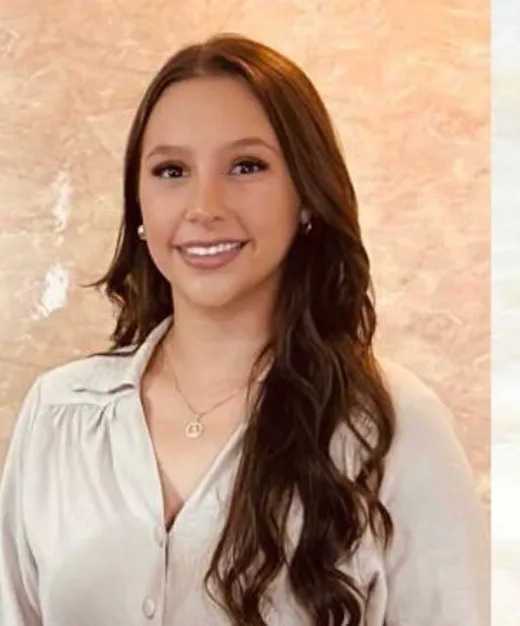
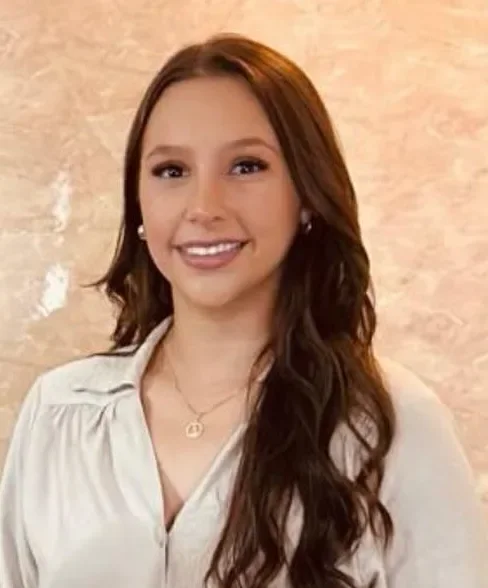
fix: recorte do retrato da Mylena

diff --git a/index.html b/index.html
@@ -114,7 +114,7 @@
       <h3>Também no escritório</h3>
       <ul>
         <li><img src="assets/img/marina.webp" width="620" height="747" loading="lazy" alt="Retrato da Dra. Marina Lima"><strong>Dra. Marina Lima</strong><p>Advogada. <span class="pendente">OAB/MG nº a confirmar</span></p></li>
-        <li><img src="assets/img/mylena.webp" width="520" height="626" loading="lazy" alt="Retrato de Mylena"><strong>Mylena</strong><p>Estudante de Direito e estagiária. <span class="pendente">Sobrenome a confirmar</span></p></li>
+        <li><img src="assets/img/mylena.webp" width="488" height="588" loading="lazy" alt="Retrato de Mylena"><strong>Mylena</strong><p>Estudante de Direito e estagiária. <span class="pendente">Sobrenome a confirmar</span></p></li>
       </ul>
     </div>
   </div>

diff --git a/gerar.py b/gerar.py
@@ -426,7 +426,7 @@ def pagina_inicio():
       <h3>Também no escritório</h3>
       <ul>
         <li><img src="assets/img/marina.webp" width="620" height="747" loading="lazy" alt="Retrato da Dra. Marina Lima"><strong>Dra. Marina Lima</strong><p>Advogada. <span class="pendente">OAB/MG nº a confirmar</span></p></li>
-        <li><img src="assets/img/mylena.webp" width="520" height="626" loading="lazy" alt="Retrato de Mylena"><strong>Mylena</strong><p>Estudante de Direito e estagiária. <span class="pendente">Sobrenome a confirmar</span></p></li>
+        <li><img src="assets/img/mylena.webp" width="488" height="588" loading="lazy" alt="Retrato de Mylena"><strong>Mylena</strong><p>Estudante de Direito e estagiária. <span class="pendente">Sobrenome a confirmar</span></p></li>
       </ul>
     </div>
   </div>
